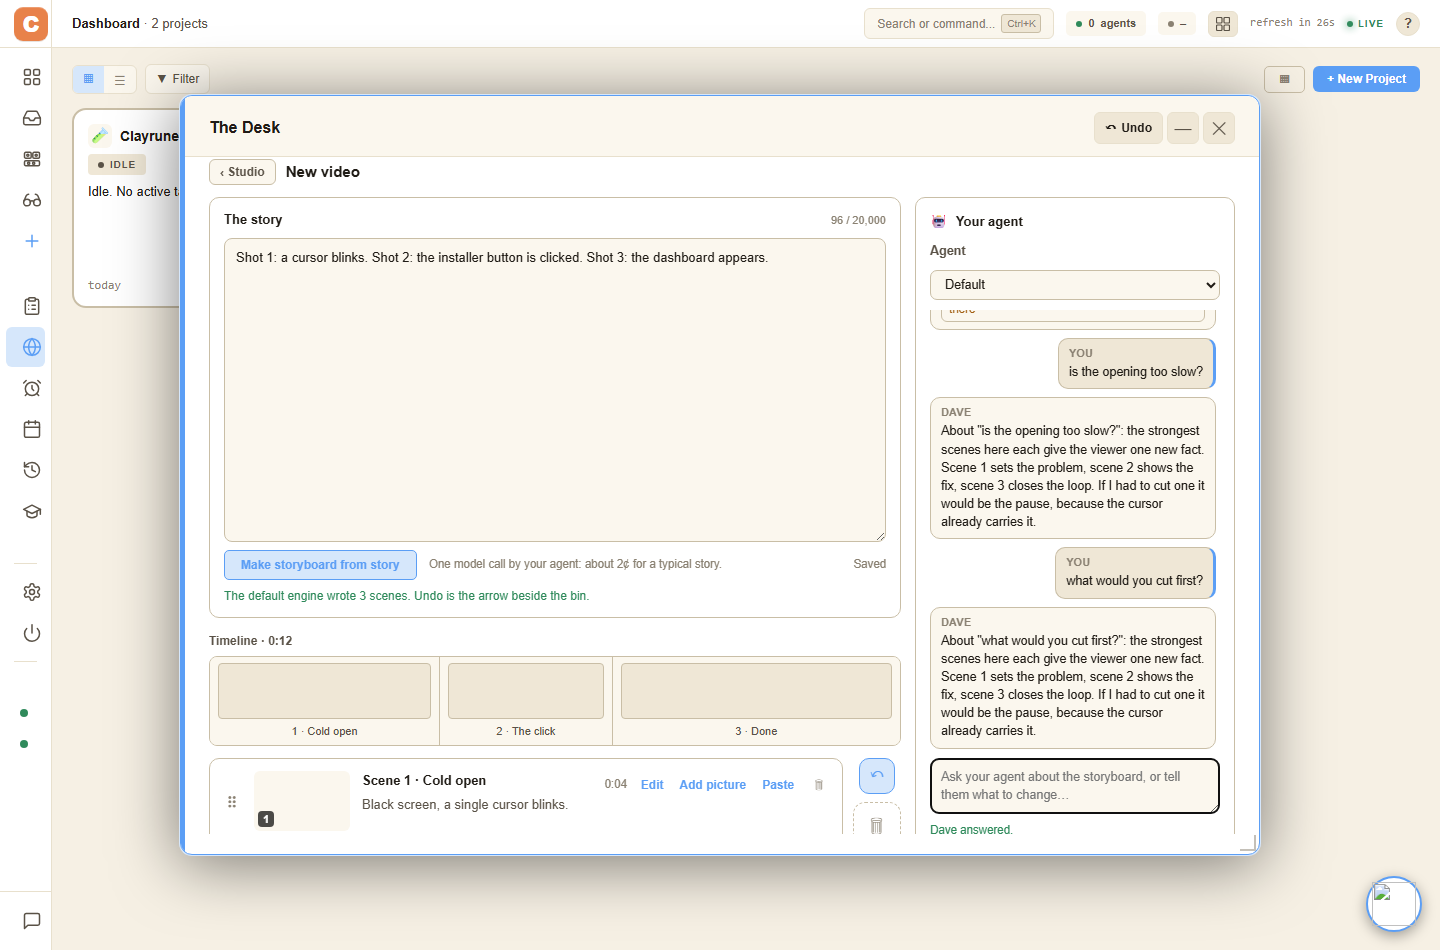
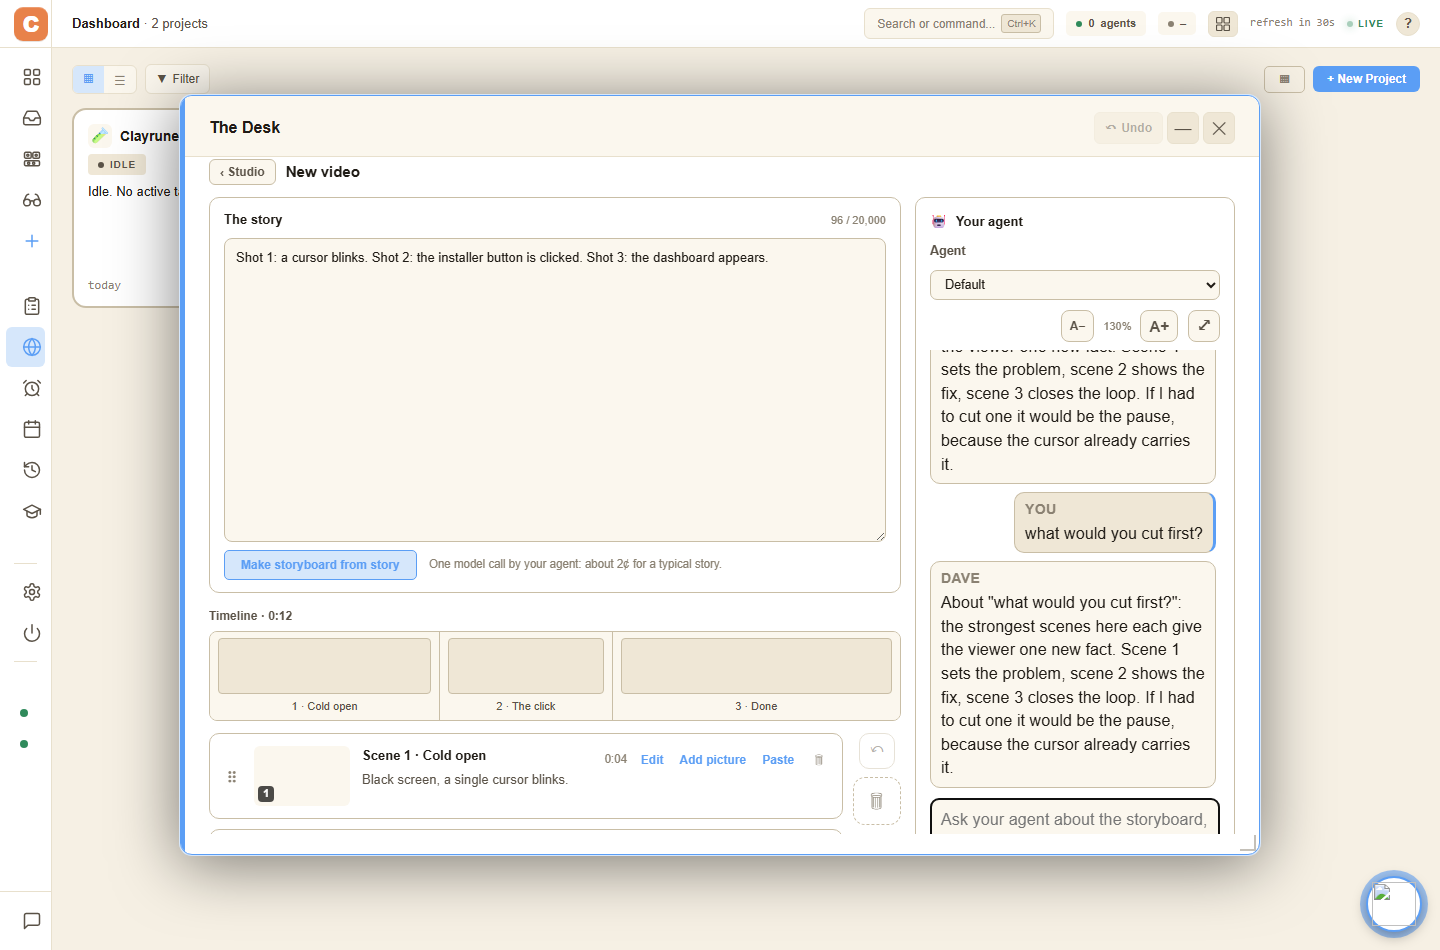
feat(desk): studio chat clears the box on send, adds text size and a large view
Ron hit three problems live: after Enter the typed text stayed in the box
until the agent replied (so he saw his message twice for many seconds), the
chat text could not be resized, and long replies had no room.

- desk-v1-story-chat.js: ask.value is cleared when the message is sent (the
  pending 'You' turn already shows it); the box stays disabled for the whole
  turn. A failed send puts the text back (into the live box, even if the agent
  box was repainted meanwhile) and says so.
- New desk-v1-chat-chrome.js/.css, shared and chat-agnostic: A-/A+ text size
  (85-175%, localStorage clayrune.desk.chatTextScale, --desk-chat-scale on
  :root) and a pop-out that lifts the SAME .desk-v1-chat element into the top
  layer (popover) instead of cloning it, so sends from it land in the one
  thread. Esc / backdrop click / the x close it and return focus; Tab is
  trapped while open. Wired to the Studio chat only.
- story-chat.css multiplies its font sizes by the scale.
- Smoke: 4 -> 51 checks incl. pending-box-empty, failed-send restore, size
  persisting across reload, pop-out send at 1440 and 390.

Undoing this brings back the stuck-looking send and drops the chrome.

diff --git a/static/js/desk-v1-chat-chrome.js b/static/js/desk-v1-chat-chrome.js
@@ -1,0 +1,128 @@
+// Desk v1: the chrome around any chat thread, shared (Ron 2026-10-06: the Studio
+// agent chat's text was too small to read and the panel too narrow for a long
+// reply). Window-bridged module, no `import` (ground rule 1). One unit, one file
+// (AGENT_RULES.md): it knows nothing about storyboards or agents, only about a
+// `.desk-v1-chat` element, so the campaign chat can adopt it with two lines.
+//
+//   window.DeskV1ChatChrome.barHTML()           the A- / A+ / pop-out strip (paint it as
+//                                               the first child of the chat element)
+//   window.DeskV1ChatChrome.attach(chatEl)      wire that strip (safe to call again)
+//   window.DeskV1ChatChrome.scale()             the saved text scale (1 = normal)
+//
+// TEXT SIZE is one setting for every chat, kept in localStorage and applied as the
+// --desk-chat-scale custom property on :root; the chat's own CSS multiplies its font
+// sizes by it. POP OUT does not copy or move anything: the SAME element, in the same
+// place in the DOM, is lifted into the top layer (popover) and sized for reading, so
+// the thread, the ask box and every listener on them are the live ones. Closing just
+// drops the class.
+(function () {
+  const KEY = 'clayrune.desk.chatTextScale';
+  const MIN = 0.85, MAX = 1.75, STEP = 0.15;
+  let _open = null;   // { el, back } while a chat is popped out
+
+  const clamp = (v) => Math.min(MAX, Math.max(MIN, Math.round(v * 100) / 100));
+  function scale() {
+    let v = 1;
+    try { v = parseFloat(localStorage.getItem(KEY)); } catch (_) { /* storage blocked: stay at normal */ }
+    return Number.isFinite(v) ? clamp(v) : 1;
+  }
+  function _apply(v) {
+    document.documentElement.style.setProperty('--desk-chat-scale', String(v));
+    document.querySelectorAll('[data-chat-chrome]').forEach((bar) => _syncBar(bar, v));
+  }
+  function _syncBar(bar, v) {
+    const pct = Math.round(v * 100);
+    const less = bar.querySelector('[data-chat-text-less]');
+    const more = bar.querySelector('[data-chat-text-more]');
+    const read = bar.querySelector('[data-chat-text-read]');
+    if (less) less.disabled = v <= MIN + 0.001;
+    if (more) more.disabled = v >= MAX - 0.001;
+    if (read) read.textContent = pct + '%';
+  }
+  function _set(v) {
+    v = clamp(v);
+    try { localStorage.setItem(KEY, String(v)); } catch (_) { /* storage blocked: applies for this page only */ }
+    _apply(v);
+  }
+
+  function barHTML() {
+    return `<div class="desk-v1-chat-chrome" data-chat-chrome role="toolbar" aria-label="Conversation view">
+      <button type="button" class="desk-v1-chat-tool" data-chat-text-less aria-label="Smaller text" title="Smaller text">A&minus;</button>
+      <span class="desk-v1-chat-tool-read" data-chat-text-read aria-live="polite"></span>
+      <button type="button" class="desk-v1-chat-tool desk-v1-chat-tool-big" data-chat-text-more aria-label="Larger text" title="Larger text">A+</button>
+      <button type="button" class="desk-v1-chat-tool desk-v1-chat-tool-pop" data-chat-pop aria-label="Open the conversation in a large view" title="Open in a large view">&#x2922;</button>
+    </div>`;
+  }
+
+  // ── Pop out ────────────────────────────────────────────────────────────────
+  function _pop(el, btn) {
+    if (_open) return;
+    const back = { opener: btn || document.activeElement };
+    el.classList.add('is-popped');
+    el.setAttribute('role', 'dialog');
+    el.setAttribute('aria-modal', 'true');
+    el.setAttribute('aria-label', 'Conversation, large view');
+    if (typeof el.showPopover === 'function') {
+      el.setAttribute('popover', 'manual');
+      try { el.showPopover(); } catch (_) { el.removeAttribute('popover'); }
+    }
+    const pop = el.querySelector('[data-chat-pop]');
+    if (pop) { pop.innerHTML = '&times;'; pop.setAttribute('aria-label', 'Close the large view'); pop.title = 'Close (Esc)'; }
+    _open = { el, back };
+    document.addEventListener('keydown', _onKey, true);
+    document.addEventListener('click', _onClick, true);
+    const thread = el.querySelector('[data-chat-thread]');
+    if (thread) thread.scrollTop = thread.scrollHeight;
+    const ask = el.querySelector('[data-sb-ask]');
+    if (ask && !ask.disabled) ask.focus({ preventScroll: true }); else if (pop) pop.focus({ preventScroll: true });
+  }
+  function close() {
+    if (!_open) return;
+    const { el, back } = _open;
+    _open = null;
+    document.removeEventListener('keydown', _onKey, true);
+    document.removeEventListener('click', _onClick, true);
+    if (el.hasAttribute('popover')) { try { el.hidePopover(); } catch (_) { /* already hidden */ } el.removeAttribute('popover'); }
+    el.classList.remove('is-popped');
+    el.removeAttribute('role'); el.removeAttribute('aria-modal'); el.removeAttribute('aria-label');
+    const pop = el.querySelector('[data-chat-pop]');
+    if (pop) { pop.innerHTML = '&#x2922;'; pop.setAttribute('aria-label', 'Open the conversation in a large view'); pop.title = 'Open in a large view'; }
+    const to = pop && pop.isConnected ? pop : back.opener;
+    if (to && to.isConnected) to.focus({ preventScroll: true });
+  }
+  // a click on the dimmed page around the large view closes it and does nothing else
+  function _onClick(e) {
+    if (!_open || _open.el.contains(e.target)) return;
+    e.preventDefault(); e.stopPropagation();
+    close();
+  }
+  function _onKey(e) {
+    if (!_open) return;
+    if (e.key === 'Escape') { e.preventDefault(); e.stopPropagation(); close(); return; }
+    if (e.key !== 'Tab') return;
+    // the page behind is not reachable while the large view is open
+    const f = [..._open.el.querySelectorAll('button:not([disabled]), textarea:not([disabled]), [tabindex="0"]')].filter((n) => n.getClientRects().length);
+    if (!f.length) return;
+    const first = f[0], last = f[f.length - 1];
+    if (!_open.el.contains(document.activeElement)) { e.preventDefault(); first.focus(); }
+    else if (e.shiftKey && document.activeElement === first) { e.preventDefault(); last.focus(); }
+    else if (!e.shiftKey && document.activeElement === last) { e.preventDefault(); first.focus(); }
+  }
+
+  function attach(el) {
+    if (!el) return;
+    // The chat was repainted (a new element) while an old one was popped out: the old one is gone.
+    if (_open && !_open.el.isConnected) { _open = null; document.removeEventListener('keydown', _onKey, true); document.removeEventListener('click', _onClick, true); }
+    const bar = el.querySelector('[data-chat-chrome]');
+    if (!bar || bar.dataset.wired) return;
+    bar.dataset.wired = '1';
+    _apply(scale());
+    bar.querySelector('[data-chat-text-less]').addEventListener('click', () => _set(scale() - STEP));
+    bar.querySelector('[data-chat-text-more]').addEventListener('click', () => _set(scale() + STEP));
+    const pop = bar.querySelector('[data-chat-pop]');
+    pop.addEventListener('click', () => { if (_open && _open.el === el) close(); else _pop(el, pop); });
+  }
+
+  _apply(scale());
+  window.DeskV1ChatChrome = { barHTML, attach, scale, close };
+})();

diff --git a/static/js/desk-v1-story-chat.js b/static/js/desk-v1-story-chat.js
@@ -15,8 +15,10 @@
 // appliers the story panel uses, via DeskV1Story.ask). A question changes nothing.
 // The thread is saved with the board on the server, so a reload shows it; it is
 // also kept here per storyboard so a repaint of the box does not lose it. Every
-// line that says something happened is written from the server's answer, and a
-// failed send keeps the typed message where it was.
+// line that says something happened is written from the server's answer. The box
+// empties the moment a message is sent (the thread shows it as a pending turn) and a
+// failed send puts the typed message back. Text size and the large view come from
+// desk-v1-chat-chrome.js.
 (function () {
   const threads = {};   // 'kind:id' -> { turns: [], loaded: false }
   let _active = null;   // the wired { box, bridge } (for onSelect)
@@ -33,6 +35,7 @@
   function html(agentName, live) {
     const name = esc(agentName);
     return `<div class="desk-v1-chat" data-chat>
+      ${window.DeskV1ChatChrome ? window.DeskV1ChatChrome.barHTML() : ''}
       <div class="desk-v1-chat-thread" data-chat-thread role="log" aria-live="polite" tabindex="0" aria-label="Conversation with ${name}"></div>
       <textarea class="desk-v1-sb-agent-input desk-v1-sb-agent-ask" data-sb-ask data-autogrow="0.4" rows="2"${live ? '' : ' disabled title="Needs the live Desk: the sample storyboard has no agent behind it"'} placeholder="Ask ${name} about the storyboard, or tell them what to change…" aria-label="Message ${name}"></textarea>
       <div class="desk-v1-story-ask-status" data-sb-ask-status role="status"></div>
@@ -103,6 +106,7 @@
     const status = box.querySelector('[data-sb-ask-status]');
     const say = (text, kind) => { if (status && status.isConnected) { status.textContent = text; status.dataset.kind = kind || ''; } };
     _active = { box, bridge };
+    if (window.DeskV1ChatChrome) window.DeskV1ChatChrome.attach(box.querySelector('[data-chat]'));
     _paint(box, bridge);
     onSelect();
     const A = Story().ask;
@@ -143,6 +147,10 @@
       const pid = bridge.projectId();
       if (pid) body.project_id = pid;
       st.pending = { text, scene };
+      // The pending 'You' turn now shows the message, so the box empties at once; a failed
+      // send puts it back (below). The box stays disabled until the turn is over.
+      ask.value = '';
+      A.fit(ask);
       _paint(box, bridge);
       say(`Asking ${bridge.agentName()}…`, 'info');
       try {
@@ -161,8 +169,6 @@
         st.loaded = true;
         const turn = res.turns[res.turns.length - 1];
         if (bridge.token() !== mine) return;
-        ask.value = '';
-        A.fit(ask);
         let line = `${res.agent && res.agent.name ? res.agent.name : 'The default engine'} answered.`;
         if (res.change) {
           try {
@@ -187,7 +193,12 @@
         }
       } catch (err) {
         st.pending = null;
-        say(`Nothing was changed: ${err && err.message ? err.message : err}. Your message is still in the box.`, 'error');
+        // the box may have been repainted (a new element) while the agent was answering
+        const cur = (_active && _active.box.isConnected && _active.box.querySelector('[data-sb-ask]')) || ask;
+        cur.value = cur.value ? `${text}
+${cur.value}` : text;
+        A.fit(cur);
+        say(`Nothing was changed: ${err && err.message ? err.message : err}. Your message is back in the box.`, 'error');
       } finally {
         A.setBusy(false);
         ask.disabled = false;

diff --git a/static/css/desk-v1-story-chat.css b/static/css/desk-v1-story-chat.css
@@ -1,3 +1,8 @@
+/* Every font size below is (its normal size) x the reader's text scale
+   (desk-v1-chat-chrome.js sets --desk-chat-scale on :root; the large view adds
+   --desk-chat-grow). */
+.desk-v1-chat { --chat-k: calc(var(--desk-chat-scale, 1) * var(--desk-chat-grow, 1)); }
+
 /* The conversation beside the storyboard (static/js/desk-v1-story-chat.js).
    The agent column is wider than the old ask box: a thread needs the room. */
 .desk-v1-sb-layout { grid-template-columns: minmax(0, 1fr) 320px; }
@@ -9,13 +14,17 @@
   overflow-y: auto; padding: 2px 4px 2px 0; overscroll-behavior: contain;
 }
 .desk-v1-chat-thread:empty { display: none; }
-.desk-v1-chat-empty { margin: 0; font-size: 12.5px; color: var(--text-dim); line-height: 1.45; }
-.desk-v1-chat-turn { border-radius: 10px; padding: 7px 10px; font-size: 12.5px; line-height: 1.45; min-width: 0; }
+.desk-v1-chat-empty { margin: 0; font-size: calc(12.5px * var(--chat-k)); color: var(--text-dim); line-height: 1.45; }
+.desk-v1-chat-turn { border-radius: 10px; padding: 7px 10px; font-size: calc(12.5px * var(--chat-k)); line-height: 1.45; min-width: 0; }
 .desk-v1-chat-user { background: var(--surface3); border: 1px solid var(--border2); border-right: 3px solid var(--accent); align-self: flex-end; max-width: 92%; }
 .desk-v1-chat-agent { background: var(--surface2); border: 1px solid var(--border2); align-self: stretch; }
-.desk-v1-chat-meta { font-size: 10.5px; font-weight: 700; text-transform: uppercase; letter-spacing: 0.04em; color: var(--text-faint); margin-bottom: 2px; }
+.desk-v1-chat-meta { font-size: calc(10.5px * var(--chat-k)); font-weight: 700; text-transform: uppercase; letter-spacing: 0.04em; color: var(--text-faint); margin-bottom: 2px; }
 .desk-v1-chat-text { color: var(--text); white-space: pre-wrap; overflow-wrap: anywhere; }
 .desk-v1-chat-thinking .desk-v1-chat-text { color: var(--text-faint); font-style: italic; }
-.desk-v1-chat-chip { margin-top: 6px; font-size: 11.5px; border-radius: 6px; padding: 3px 7px; border: 1px solid var(--border2); color: var(--text-dim); overflow-wrap: anywhere; }
+.desk-v1-chat-chip { margin-top: 6px; font-size: calc(11.5px * var(--chat-k)); border-radius: 6px; padding: 3px 7px; border: 1px solid var(--border2); color: var(--text-dim); overflow-wrap: anywhere; }
 .desk-v1-chat-chip[data-kind="ok"] { color: var(--green-text); }
 .desk-v1-chat-chip[data-kind="error"] { color: var(--amber-text, var(--amber)); }
+
+/* The ask box and its status line follow the same scale */
+.desk-v1-chat .desk-v1-sb-agent-ask { font-size: calc(12.5px * var(--chat-k)); }
+.desk-v1-chat .desk-v1-story-ask-status { font-size: calc(11.5px * var(--chat-k)); }

diff --git a/static/css/desk-v1-chat-chrome.css b/static/css/desk-v1-chat-chrome.css
@@ -1,0 +1,31 @@
+/* The strip above a chat thread: text size and the large view
+   (static/js/desk-v1-chat-chrome.js). Nothing here knows what the chat is about. */
+.desk-v1-chat-chrome { display: flex; align-items: center; justify-content: flex-end; gap: 4px; }
+.desk-v1-chat-tool {
+  min-width: 32px; height: 32px; padding: 0 8px; box-sizing: border-box; cursor: pointer;
+  font-family: inherit; font-size: 12px; font-weight: 600; line-height: 1; color: var(--text-dim);
+  background: var(--surface2); border: 1px solid var(--border2); border-radius: 8px;
+}
+.desk-v1-chat-tool-big { font-size: 15px; }
+.desk-v1-chat-tool:hover:not(:disabled) { color: var(--text); border-color: var(--accent); }
+.desk-v1-chat-tool:focus-visible { outline: 2px solid var(--accent); outline-offset: 1px; }
+.desk-v1-chat-tool:disabled { opacity: 0.4; cursor: default; }
+.desk-v1-chat-tool-pop { font-size: 16px; margin-left: 6px; }
+.desk-v1-chat-tool-read { min-width: 38px; text-align: center; font-size: 11px; color: var(--text-faint); }
+
+/* The large view: the SAME chat element, lifted into the top layer and sized for reading. */
+.desk-v1-chat.is-popped {
+  position: fixed; inset: max(8px, 4vh) max(8px, calc((100vw - 920px) / 2));
+  width: auto; height: auto; max-width: none; max-height: none; margin: 0; box-sizing: border-box;
+  padding: 14px 16px; gap: 10px; overflow: hidden; z-index: 3000;
+  background: var(--surface); color: var(--text); border: 1px solid var(--border2); border-radius: 12px;
+  box-shadow: 0 20px 60px rgba(0, 0, 0, 0.5);
+  --desk-chat-grow: 1.2;
+}
+/* no Popover API: dim the page with a shadow instead */
+.desk-v1-chat.is-popped:not([popover]) { box-shadow: 0 0 0 100vmax rgba(0, 0, 0, 0.55); }
+.desk-v1-chat.is-popped::backdrop { background: rgba(0, 0, 0, 0.55); }
+.desk-v1-chat.is-popped .desk-v1-chat-thread { flex: 1 1 auto; min-height: 0; max-height: none; }
+.desk-v1-chat.is-popped .desk-v1-chat-thread:empty { display: block; }
+.desk-v1-chat.is-popped .desk-v1-sb-agent-ask { flex: 0 0 auto; }
+@media (max-width: 960px) { .desk-v1-chat.is-popped { inset: 8px; padding: 12px; } }

diff --git a/static/index.html b/static/index.html
@@ -280,6 +280,7 @@
 <link rel="stylesheet" href="/static/css/desk-v1-studio-delete.css">
 <link rel="stylesheet" href="/static/css/desk-v1-studio-article.css">
 <link rel="stylesheet" href="/static/css/desk-v1-story.css">
+<link rel="stylesheet" href="/static/css/desk-v1-chat-chrome.css">
 <link rel="stylesheet" href="/static/css/desk-v1-story-chat.css">
 <link rel="stylesheet" href="/static/css/desk-v1-mobile-b2.css">
 <link rel="stylesheet" href="/static/css/desk-v1-connections.css">
@@ -4216,6 +4217,7 @@ window.addEventListener('beforeunload', () => {
 <script type="module" src="/static/js/desk-v1-studio-delete.js"></script>
 <script type="module" src="/static/js/desk-v1-studio-article.js"></script>
 <script type="module" src="/static/js/desk-v1-story.js"></script>
+<script type="module" src="/static/js/desk-v1-chat-chrome.js"></script>
 <script type="module" src="/static/js/desk-v1-story-chat.js"></script>
 <script type="module" src="/static/js/desk-v1-studio.js"></script>
 <script type="module" src="/static/js/desk-v1-conversations.js"></script>

diff --git a/CHANGELOG.md b/CHANGELOG.md
@@ -6,6 +6,12 @@
 > Cloud Run service, keystore namespace) intentionally remain "mission-control"
 > to avoid breaking existing installs.
 
+## [2026-10-06] - Desk Studio agent chat: send, text size, large view
+
+- The ask box now empties the moment Enter sends (the pending "You" turn shows the message); it stays disabled until the reply is in, and a failed send puts the typed text back with the error.
+- New shared `desk-v1-chat-chrome.js` (+ CSS): A-/A+ text size (85-175%, remembered in localStorage) and a pop-out that lifts the SAME chat element into a large top-layer view (Esc, backdrop or the x closes it and returns focus). Wired to the Studio chat only; the campaign chat can adopt it with `barHTML()` + `attach()`.
+- `tools/smoke/desk-v1-story-chat.mjs` gained the send, text-size and pop-out checks at 1440 and 390.
+
 ## [2026-10-06] - One Add service flow and shared language (MC-1062/14)
 
 - Activated the six-screen Connect shell for every service and retired the old wizard/list entry. Maintained profiles and automatic unknown-URL investigation feed one options screen; unimplemented suggestions stay information only, with manual software/server and reference setup under Details.
